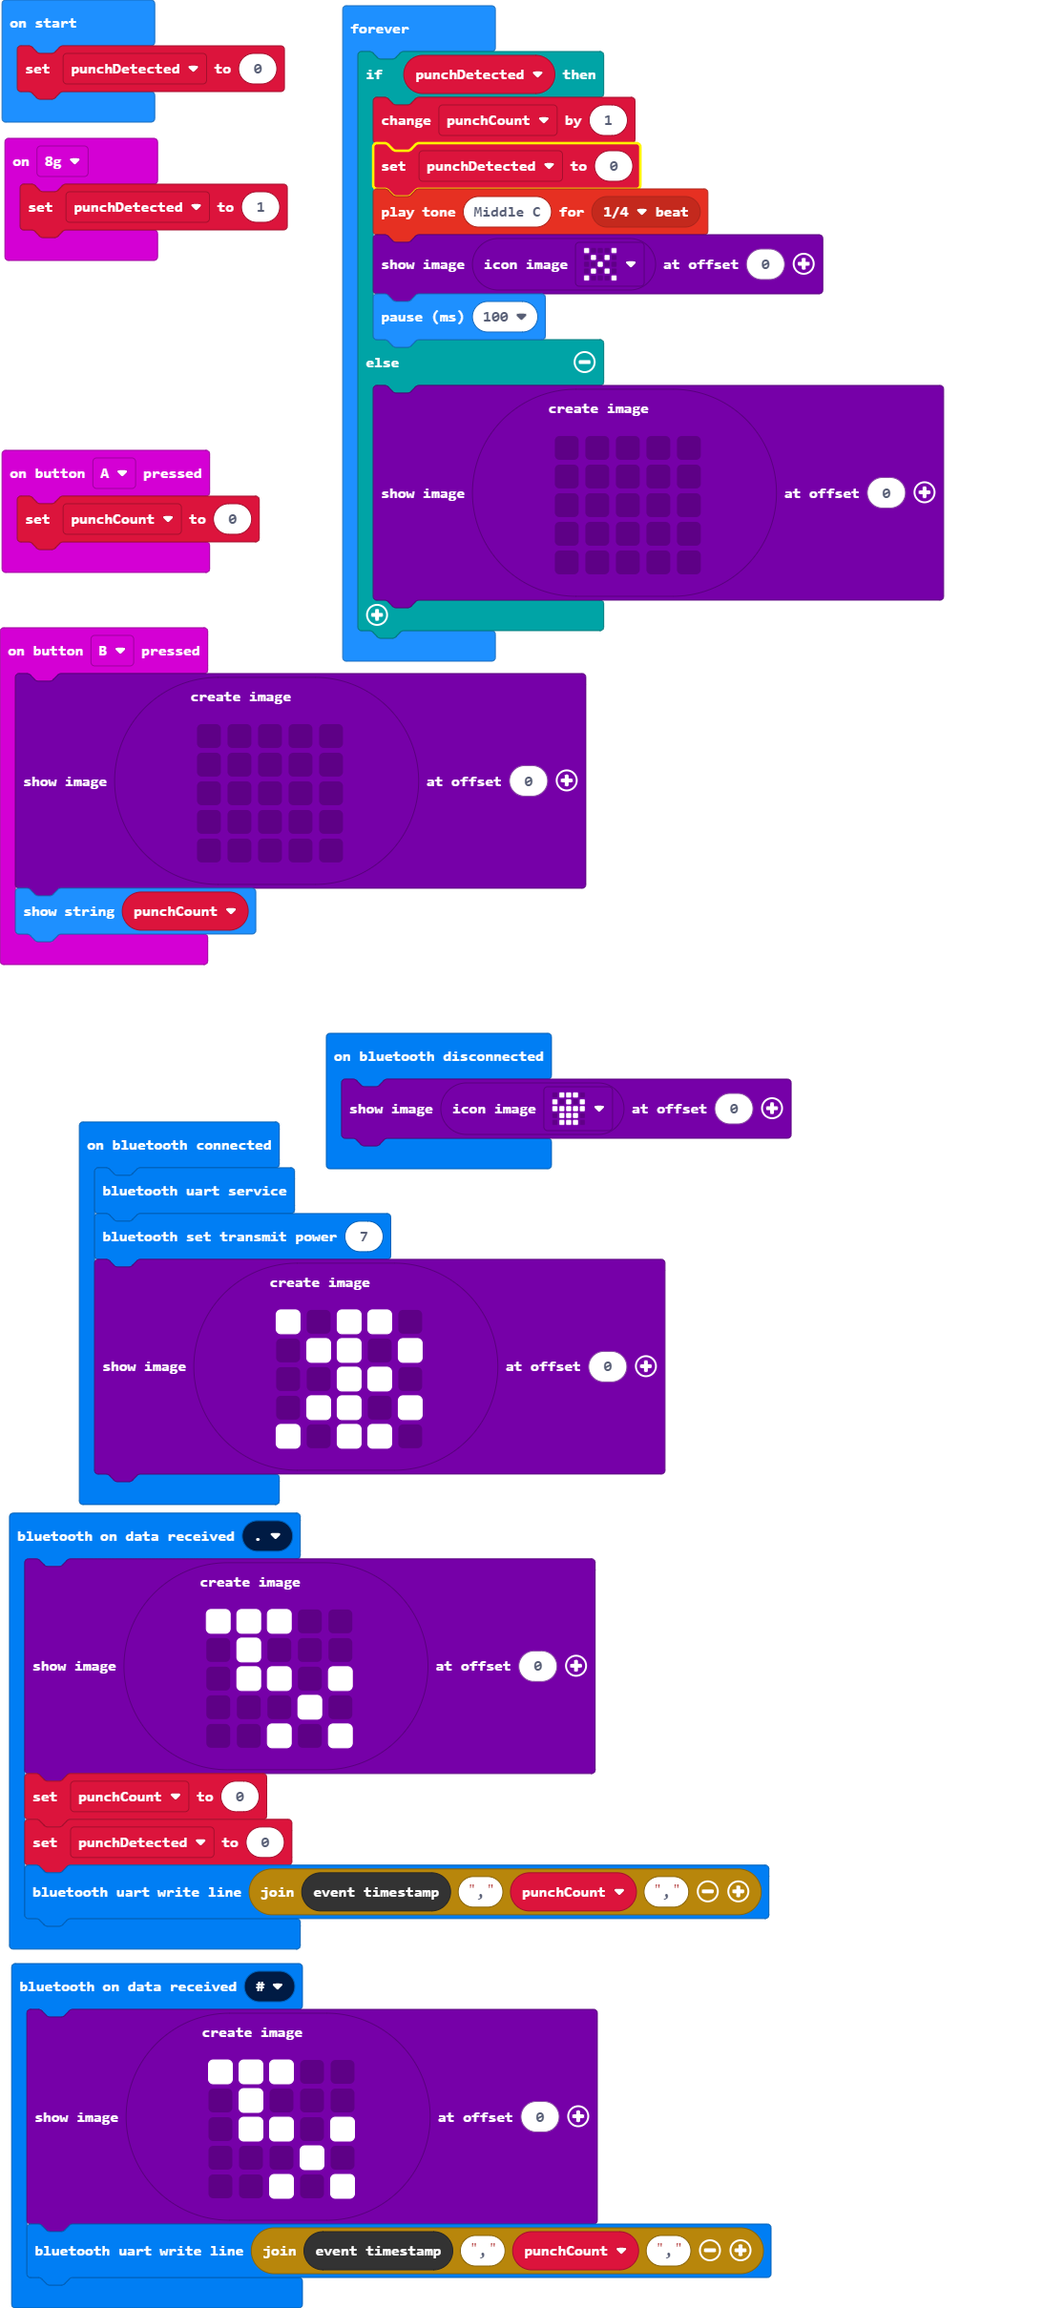
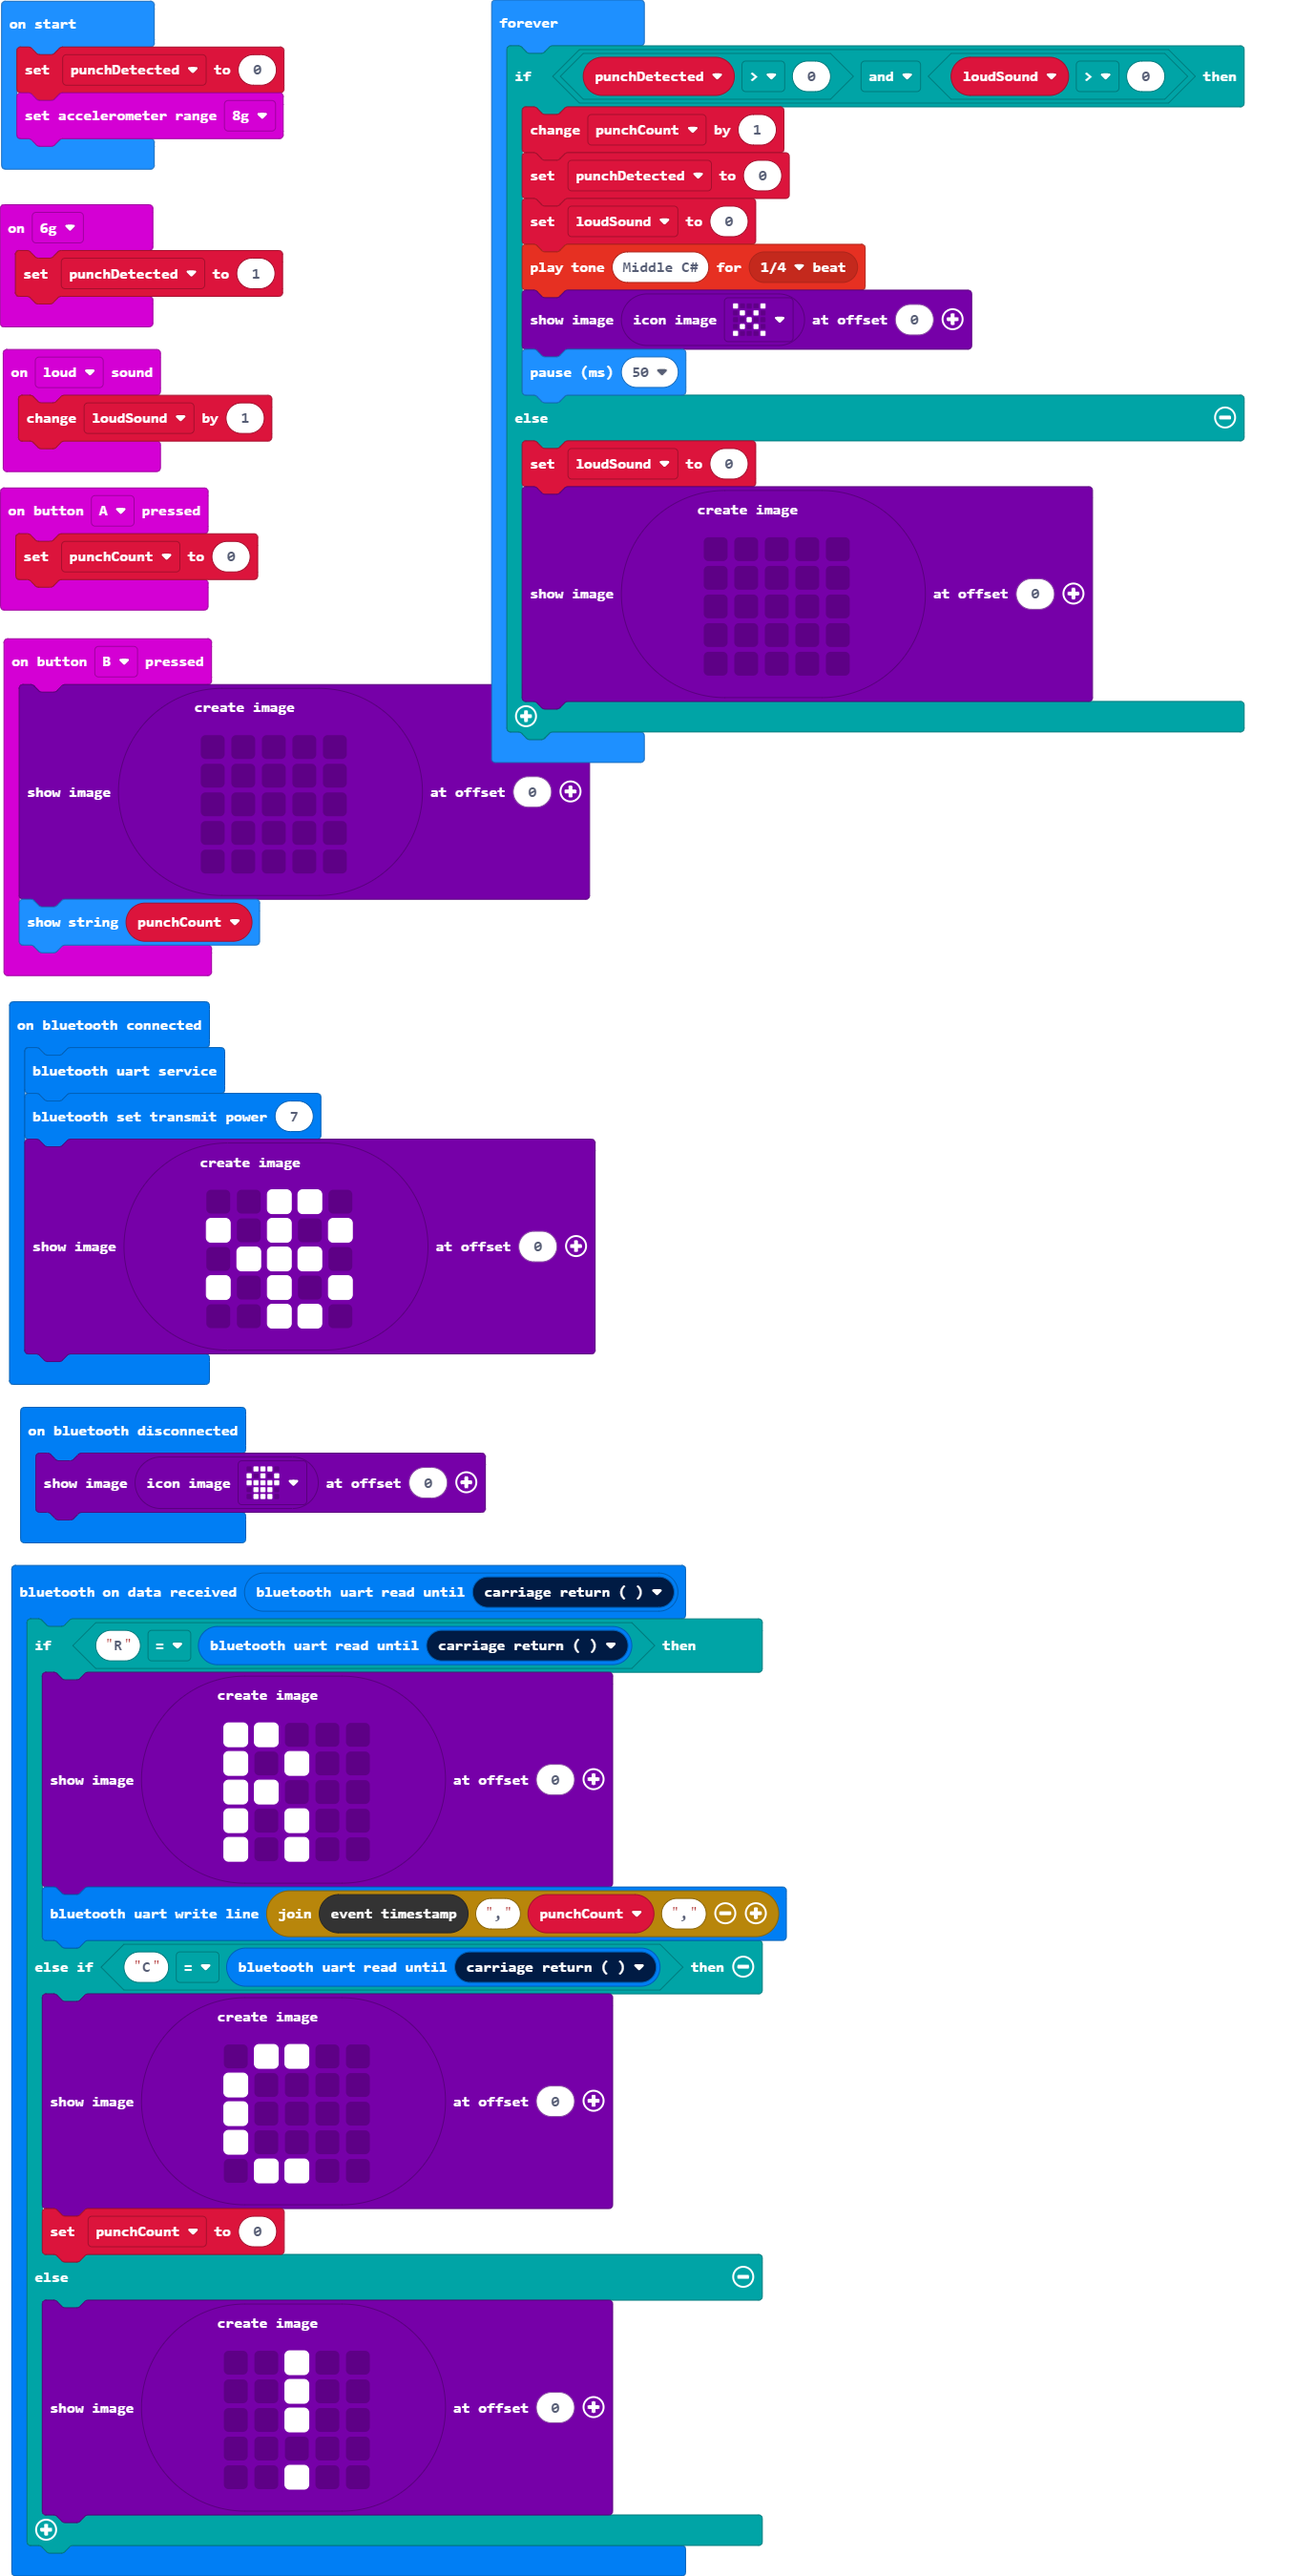
Added robustness thru loud sound detection, fixed BT events

diff --git a/main.ts b/main.ts
@@ -1,15 +1,12 @@
-input.onGesture(Gesture.EightG, function () {
-    punchDetected = 1
-})
 bluetooth.onBluetoothConnected(function () {
     bluetooth.startUartService()
     bluetooth.setTransmitPower(7)
     images.createImage(`
-        # . # # .
-        . # # . #
         . . # # .
-        . # # . #
-        # . # # .
+        # . # . #
+        . # # # .
+        # . # . #
+        . . # # .
         `).showImage(0)
 })
 bluetooth.onBluetoothDisconnected(function () {
@@ -18,27 +15,40 @@ bluetooth.onBluetoothDisconnected(function () {
 input.onButtonPressed(Button.A, function () {
     punchCount = 0
 })
-bluetooth.onUartDataReceived(serial.delimiters(Delimiters.Fullstop), function () {
-    images.createImage(`
-        # # # . .
-        . # . . .
-        . # # . #
-        . . . # .
-        . . # . #
-        `).showImage(0)
-    punchCount = 0
-    punchDetected = 0
-    bluetooth.uartWriteLine("" + control.eventTimestamp() + "," + punchCount + ",")
+bluetooth.onUartDataReceived(bluetooth.uartReadUntil(serial.delimiters(Delimiters.CarriageReturn)), function () {
+    if ("R" == bluetooth.uartReadUntil(serial.delimiters(Delimiters.CarriageReturn))) {
+        images.createImage(`
+            # # . . .
+            # . # . .
+            # # . . .
+            # . # . .
+            # . # . .
+            `).showImage(0)
+        bluetooth.uartWriteLine("" + control.eventTimestamp() + "," + punchCount + ",")
+    } else if ("C" == bluetooth.uartReadUntil(serial.delimiters(Delimiters.CarriageReturn))) {
+        images.createImage(`
+            . # # . .
+            # . . . .
+            # . . . .
+            # . . . .
+            . # # . .
+            `).showImage(0)
+        punchCount = 0
+    } else {
+        images.createImage(`
+            . . # . .
+            . . # . .
+            . . # . .
+            . . . . .
+            . . # . .
+            `).showImage(0)
+    }
 })
-bluetooth.onUartDataReceived(serial.delimiters(Delimiters.Hash), function () {
-    images.createImage(`
-        # # # . .
-        . # . . .
-        . # # . #
-        . . . # .
-        . . # . #
-        `).showImage(0)
-    bluetooth.uartWriteLine("" + control.eventTimestamp() + "," + punchCount + ",")
+input.onGesture(Gesture.SixG, function () {
+    punchDetected = 1
+})
+input.onSound(DetectedSound.Loud, function () {
+    loudSound += 1
 })
 input.onButtonPressed(Button.B, function () {
     images.createImage(`
@@ -50,17 +60,21 @@ input.onButtonPressed(Button.B, function () {
         `).showImage(0)
     basic.showString("" + (punchCount))
 })
+let loudSound = 0
 let punchCount = 0
 let punchDetected = 0
 punchDetected = 0
+input.setAccelerometerRange(AcceleratorRange.EightG)
 basic.forever(function () {
-    if (punchDetected) {
+    if (punchDetected > 0 && loudSound > 0) {
         punchCount += 1
         punchDetected = 0
-        music.playTone(262, music.beat(BeatFraction.Quarter))
+        loudSound = 0
+        music.playTone(277, music.beat(BeatFraction.Quarter))
         images.iconImage(IconNames.No).showImage(0)
-        basic.pause(100)
+        basic.pause(50)
     } else {
+        loudSound = 0
         images.createImage(`
             . . . . .
             . . . . .
